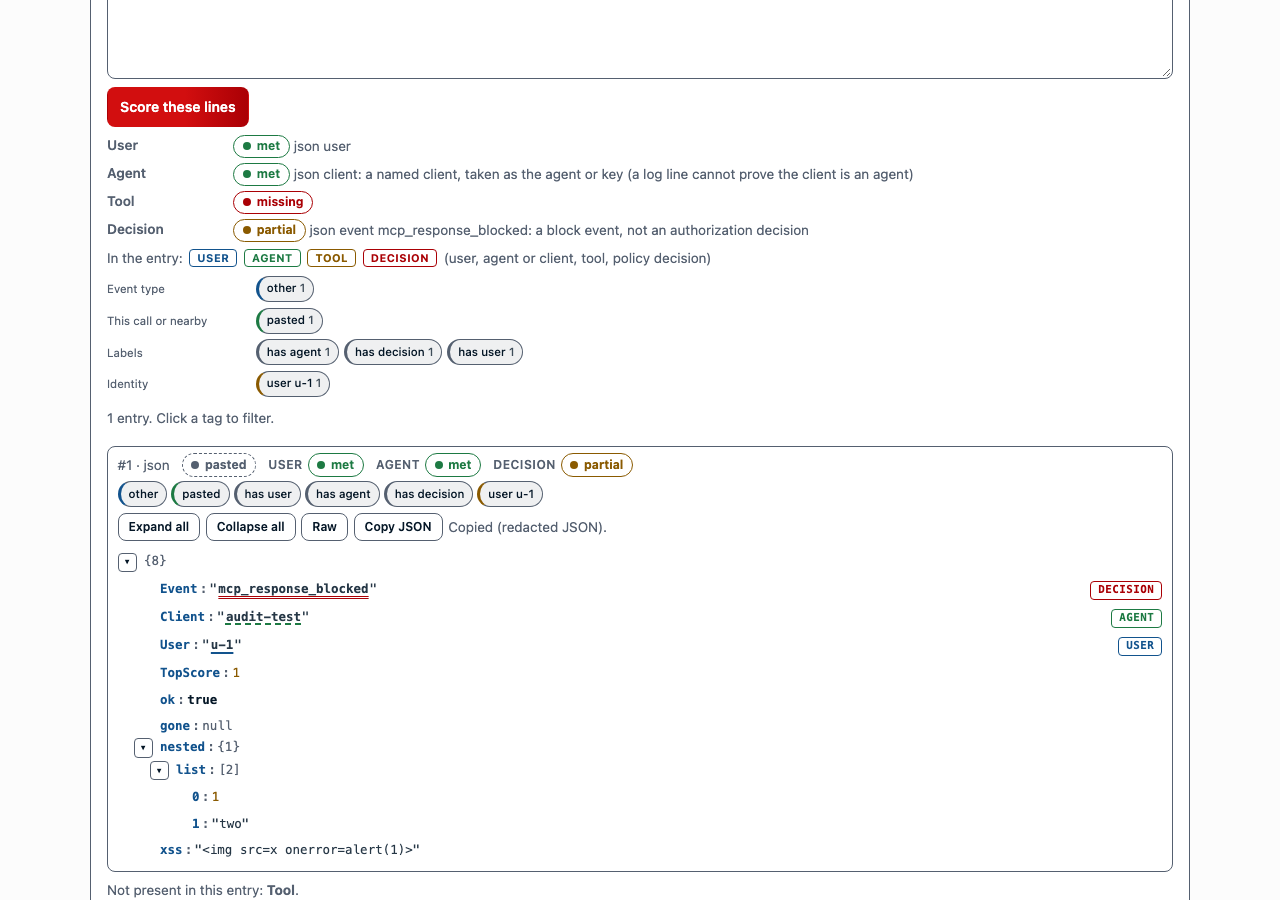
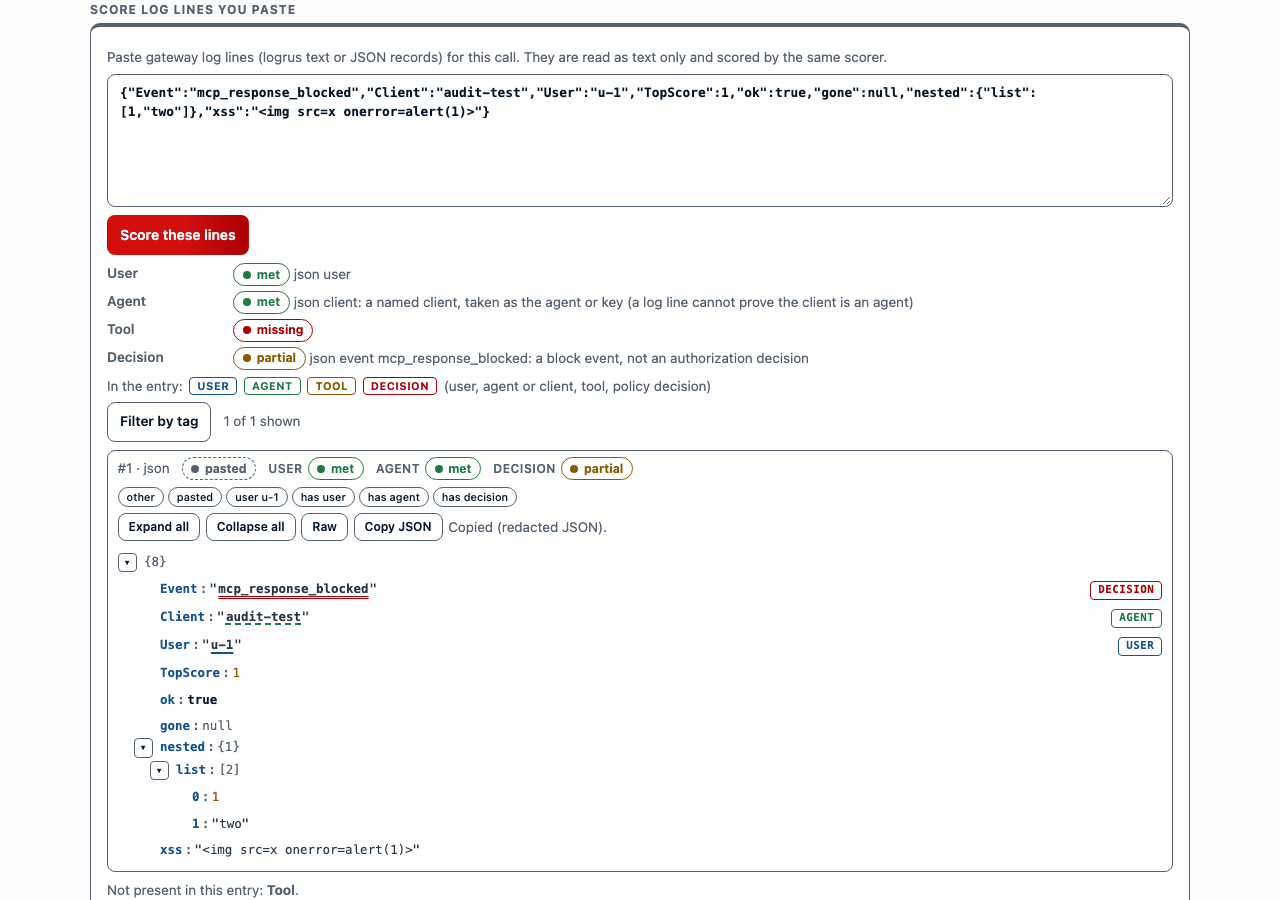
Trace tags styled after the Demo Shelf (#14)
Same pattern as demo-shelf-LAB: a Filter by tag toggle with X of Y shown,
a bordered panel of grouped chips (uppercase group labels, label plus
count, a picked chip filled with an accent outline, a chip that would
leave nothing disabled), Clear tags / Hide tags, and up to six small tag
pills per entry then +N more. Counts apply the other groups' selection.
Identity tags now come before the labels so they stay in the first six.

Changed region(s): [[0.0625, 0.0622, 0.8125, 0.56], [0.0625, 0.0, 0.9375, 0.0311]]

diff --git a/web/src/components/LogEntries.jsx b/web/src/components/LogEntries.jsx
@@ -16,33 +16,66 @@ const SHOW = 50;
 const KIND = { runtime: ["ok", "runtime event"], console: ["info", "console event"], unknown: ["neutral", "kind unknown"] };
 const GROUPS = [["type", "Event type"], ["match", "This call or nearby"], ["label", "Labels"], ["identity", "Identity"]];
 
-// Every tag on these entries, grouped, with how many entries carry it. Clicking one filters; clicking again clears it.
+// Styled after the Demo Shelf's tag filter (demo-shelf-LAB): a "Filter by tag" toggle, then a panel of groups with a pill per tag
+// and its count, "X of Y shown", Clear tags / Hide tags. A count is how many entries that tag would leave with every other group's
+// selection applied (within a group, tags add up); a tag that would leave none is disabled unless it is selected.
 function TagFilter({ tagsByEntry, selected, onToggle, onClear, shown, total }) {
-  const counts = new Map();
-  for (const tags of tagsByEntry) for (const t of tags) { const id = tagId(t); const c = counts.get(id) || { t, n: 0 }; c.n += 1; counts.set(id, c); }
+  const [open, setOpen] = useState(false);
+  const all = new Map();
+  for (const tags of tagsByEntry) for (const t of tags) all.set(tagId(t), t);
+  const countFor = (t) => {
+    const others = new Set([...selected].filter((id) => !id.startsWith(`${t.group}:`)));
+    others.add(tagId(t));
+    return tagsByEntry.filter((tags) => matchesAll(tags, others)).length;
+  };
+  const status = <span className="tag-filters__count" role="status" data-testid="tag-filter-count">{shown} of {total} shown</span>;
+  if (!open && selected.size === 0) {
+    return <p className="tag-toggle"><button type="button" aria-expanded="false" onClick={() => setOpen(true)} data-testid="tag-filter-open">Filter by tag</button> {status}</p>;
+  }
   return (
-    <div className="tagfilter" data-testid="tag-filter" role="group" aria-label="Filter entries by tag">
+    <section className="tag-filters" aria-label="Filter entries by tag" data-testid="tag-filter">
       {GROUPS.map(([g, label]) => {
-        const items = [...counts.values()].filter((c) => c.t.group === g).sort((a, b) => b.n - a.n || a.t.value.localeCompare(b.t.value));
+        const items = [...all.values()].filter((t) => t.group === g).map((t) => ({ t, n: countFor(t) })).sort((a, b) => b.n - a.n || a.t.value.localeCompare(b.t.value));
         if (!items.length) return null;
         return (
-          <div key={g} className="tagfilter__group">
-            <span className="muted tagfilter__label">{label}</span>
-            {items.map(({ t, n }) => <TagButton key={tagId(t)} t={t} on={selected.has(tagId(t))} onToggle={onToggle} count={n} testId="filter-tag" />)}
+          <div key={g} role="group" aria-label={label} className="tag-filters__row">
+            <span className="tag-filters__group">{label}</span>
+            {items.map(({ t, n }) => {
+              const on = selected.has(tagId(t));
+              return (
+                <button key={tagId(t)} type="button" className="tag-chip" aria-pressed={on} disabled={!on && n === 0} onClick={() => onToggle(tagId(t))} data-testid="filter-tag" data-tag={tagId(t)}>
+                  {t.value} <small>{n}</small>
+                </button>
+              );
+            })}
           </div>
         );
       })}
-      <p className="muted" data-testid="tag-filter-count">
-        {selected.size ? <>Showing {shown} of {total} entries. <button type="button" onClick={onClear} data-testid="tag-filter-clear">Clear filters</button></> : <>{total} {total === 1 ? "entry" : "entries"}. Click a tag to filter.</>}
-      </p>
-    </div>
+      <div className="tag-filters__bar">
+        {status}
+        {selected.size > 0 && <button type="button" onClick={onClear} data-testid="tag-filter-clear">Clear tags</button>}
+        {selected.size === 0 && <button type="button" aria-expanded="true" onClick={() => setOpen(false)} data-testid="tag-filter-hide">Hide tags</button>}
+      </div>
+    </section>
   );
 }
-const TagButton = ({ t, on, onToggle, count, testId }) => (
-  <button type="button" className={`etag etag--${t.group}${on ? " etag--on" : ""}`} aria-pressed={on ? "true" : "false"} onClick={() => onToggle(tagId(t))} data-testid={testId} data-tag={tagId(t)}>
-    {t.value}{count !== undefined ? <span className="etag__n"> {count}</span> : null}
-  </button>
-);
+
+// The tags on one entry, as the shelf shows tags on a box: small pills (a picked one is filled), at most MAX_PILLS, then "+N more".
+const MAX_PILLS = 6;
+function EntryTags({ tags, selected, onToggle }) {
+  const [more, setMore] = useState(false);
+  const shown = more ? tags : tags.slice(0, MAX_PILLS);
+  return (
+    <ul className="tag-pills" aria-label="Tags" data-testid="entry-tags">
+      {shown.map((t) => (
+        <li key={tagId(t)}>
+          <button type="button" className="tag-pill" aria-pressed={selected.has(tagId(t))} onClick={() => onToggle(tagId(t))} data-testid="entry-tag" data-tag={tagId(t)}>{t.value}</button>
+        </li>
+      ))}
+      {!more && tags.length > MAX_PILLS && <li><button type="button" className="tag-more" onClick={() => setMore(true)} data-testid="entry-tags-more">+{tags.length - MAX_PILLS} more</button></li>}
+    </ul>
+  );
+}
 
 export default function LogEntries({ lines, methods = [], marks = {}, testId = "lines", scored = true, from = "", kinds = [], indices = [] }) {
   const [all, setAll] = useState(false);
@@ -74,7 +107,7 @@ export default function LogEntries({ lines, methods = [], marks = {}, testId = "
                 {word && <Chip kind={kind} testId="entry-method">{word}</Chip>}
                 {fs.map((f) => <span key={f.field} className="ltag"><span className="ltag__name">{FIELD_LABEL[f.field]}</span> <LevelChip level={f.level} /></span>)}
               </div>
-              <div className="entry__tags" data-testid="entry-tags">{tagsByEntry[i].map((t) => <TagButton key={tagId(t)} t={t} on={selected.has(tagId(t))} onToggle={toggle} testId="entry-tag" />)}</div>
+              <EntryTags tags={tagsByEntry[i]} selected={selected} onToggle={toggle} />
               <JsonTree value={parsed[i].value} raw={line} marks={textMarks(i)} label={`Log entry ${i + 1}`} testId={`entry-${i}`} />
             </li>
           );

diff --git a/web/src/app.css b/web/src/app.css
@@ -148,17 +148,20 @@ button[aria-pressed="true"]:hover:not(:disabled), button[aria-selected="true"]:h
    dashed edge. Muted on --surface-2 stays above 4.5:1 in both themes. Override here; standalone-ui.css is vendored. */
 button.primary:disabled { background: var(--surface-2); color: var(--muted); border: 1px dashed var(--muted); opacity: 1; }
 .priv-filters { display: flex; flex-wrap: wrap; gap: 0.6rem; align-items: end; margin: 0.5rem 0; }
-/* Entry tags and the tag filter (Trace): unselected tags keep readable text on surface-2; selected = accent fill. */
-.tagfilter { display: grid; gap: 0.35rem; margin: 0.5rem 0 0.75rem; }
-.tagfilter__group { display: flex; flex-wrap: wrap; align-items: center; gap: 0.3rem; }
-.tagfilter__label { font-size: 0.72rem; min-width: 9rem; }
-.entry__tags { display: flex; flex-wrap: wrap; gap: 0.25rem; margin: 0.3rem 0; }
-.etag { min-height: 26px; font-weight: 500; font-size: 0.72rem; line-height: 1.3; padding: 0.1rem 0.5rem; border-radius: 999px; border: 1px solid var(--border); border-left-width: 3px; background: var(--surface-2); color: var(--text); cursor: pointer; overflow-wrap: anywhere; text-align: left; }
-.etag--type { border-left-color: var(--status-info); } .etag--match { border-left-color: var(--status-ok); }
-.etag--identity { border-left-color: var(--status-warn); } .etag--label { border-left-color: var(--muted); }
-.etag--on { background: var(--accent); color: var(--on-accent); border-color: var(--on-accent-border); }
-.etag__n { opacity: 0.75; }
-.etag:focus-visible { outline: 2px solid var(--accent); outline-offset: 1px; }
+/* Entry tags and the tag filter (Trace), styled after the Demo Shelf (demo-shelf-LAB web/src/styles.css): same sizes, pills and
+   panel. A picked pill is filled by the shared aria-pressed rule in standalone-ui.css, plus the shelf's accent outline. */
+.tag-filters__row { display: flex; flex-wrap: wrap; gap: 8px; align-items: center; }
+.tag-filters { display: grid; gap: 8px; padding: 14px; margin: 0.5rem 0 0.75rem; border: 1px solid var(--border); border-radius: 12px; background: var(--surface); }
+.tag-filters__group { flex: 0 0 11rem; color: var(--muted); font-size: 0.72rem; font-weight: 700; letter-spacing: 0.08em; text-transform: uppercase; }
+.tag-chip { display: inline-flex; gap: 6px; align-items: baseline; min-height: 0; padding: 3px 12px; border-radius: 999px; font-size: 0.8rem; overflow-wrap: anywhere; }
+.tag-chip small { font-weight: 500; }
+.tag-chip[aria-pressed="true"] { outline: 2px solid var(--accent); outline-offset: 1px; }
+.tag-filters__bar { display: flex; gap: 12px; align-items: center; justify-content: space-between; color: var(--muted); font-size: 0.8rem; }
+.tag-toggle { display: flex; gap: 12px; align-items: center; margin: 0.5rem 0; color: var(--muted); font-size: 0.8rem; }
+.tag-pills { display: flex; flex-wrap: wrap; gap: 4px; margin: 0.3rem 0; padding: 0; list-style: none; }
+.tag-pill { min-height: 0; padding: 1px 8px; border-radius: 999px; font-size: 0.68rem; font-weight: 500; overflow-wrap: anywhere; text-align: left; }
+.tag-more { min-height: 0; padding: 1px 8px; border-radius: 999px; border-style: dashed; color: var(--muted); font-size: 0.7rem; font-weight: 500; }
+@media (max-width: 600px) { .tag-filters__group { flex-basis: 100%; } }
 /* The confirm gate inside a case card (single Run): same warning edge as the top-level gate, no nested card. */
 .gate-inline { margin: 0.5rem 0; padding: 0.6rem 0.75rem; border: 1px solid var(--status-warn); border-left-width: 4px; border-radius: 8px; background: var(--surface-2); }
 .gate-inline__title { font-size: 0.95rem; margin: 0 0 0.35rem; }

diff --git a/web/src/App.test.jsx b/web/src/App.test.jsx
@@ -177,17 +177,31 @@ describe("Mock mode", () => {
     const items = () => within(sink).queryAllByTestId("entry-item");
     expect(items()).toHaveLength(3);
     expect(within(items()[0]).getAllByTestId("entry-tag").map((t) => t.getAttribute("data-tag"))).toEqual(expect.arrayContaining(["type:auth", "match:recorded sample", "identity:key audit-test"]));
+    const first = within(items()[0]);
+    expect(first.getAllByTestId("entry-tag")).toHaveLength(6); // at most six pills, then "+N more", like tags on a shelf box
+    await user.click(first.getByTestId("entry-tags-more"));
+    expect(first.getAllByTestId("entry-tag").length).toBeGreaterThan(6);
+    expect(first.queryByTestId("entry-tags-more")).toBeNull();
+    // like the Demo Shelf: collapsed behind "Filter by tag" with "X of Y shown"; counts say what each tag would leave
+    expect(within(sink).getByTestId("tag-filter-count").textContent).toBe("3 of 3 shown");
+    await user.click(within(sink).getByTestId("tag-filter-open"));
     const filterTag = (id) => within(sink).getAllByTestId("filter-tag").find((b) => b.getAttribute("data-tag") === id);
+    expect(filterTag("type:auth").textContent).toBe("auth 1");
     await user.click(filterTag("type:auth"));
     expect(items()).toHaveLength(1);
     expect(filterTag("type:auth")).toHaveAttribute("aria-pressed", "true");
-    expect(within(sink).getByTestId("tag-filter-count").textContent).toMatch(/Showing 1 of 3 entries/);
+    expect(within(sink).getByTestId("tag-filter-count").textContent).toBe("1 of 3 shown");
+    expect(within(items()[0]).getAllByTestId("entry-tag").find((b) => b.getAttribute("data-tag") === "type:auth")).toHaveAttribute("aria-pressed", "true");
     await user.click(filterTag("type:policy"));
     expect(items()).toHaveLength(2);
+    expect(filterTag("identity:key audit-test")).not.toBeDisabled();
     await user.click(filterTag("identity:key audit-test"));
     expect(items()).toHaveLength(1);
+    expect(filterTag("type:policy").textContent).toBe("policy 0"); // with the key picked, policy alone would leave nothing
     await user.click(within(sink).getByTestId("tag-filter-clear"));
     expect(items()).toHaveLength(3);
+    await user.click(within(sink).getByTestId("tag-filter-hide"));
+    expect(within(sink).getByTestId("tag-filter-open")).toBeInTheDocument();
   });
 
   it("Trace says where every log entry came from: a recorded sample names its sink and date, and each entry carries a from chip", async () => {

diff --git a/web/src/lib/entryTags.js b/web/src/lib/entryTags.js
@@ -47,11 +47,12 @@ export function tagsFor(line, { method, kind, from, fields = [] } = {}) {
   const tags = [];
   const types = TYPES.filter(([, re]) => re.test(String(line))).map(([n]) => n);
   for (const n of types.length ? types : ['other']) tags.push({ group: 'type', value: n });
+  // Order = what an entry shows first (at most six pills, then "+N more"): type, match, identity, then the labels.
   if (MATCH[method]) tags.push({ group: 'match', value: MATCH[method] });
+  for (const i of identitiesOf(line)) tags.push({ group: 'identity', value: i });
   if (from) tags.push({ group: 'label', value: `from ${from}` });
   if (KIND[kind]) tags.push({ group: 'label', value: KIND[kind] });
   for (const f of fields) if (FIELD[f]) tags.push({ group: 'label', value: FIELD[f] });
-  for (const i of identitiesOf(line)) tags.push({ group: 'identity', value: i });
   return tags;
 }
 

diff --git a/README.md b/README.md
@@ -61,7 +61,7 @@ The lab then GETs `/api/v1/namespaces/<ns>/pods/<pod>/log?container=<c>&sinceSec
 ## Pages
 
 1. **Run**: use cases grouped MCP, AI Guard, Rejected, Aggregate, A2A, LLM, Intent, a Run button each and Run all. A Run stays on this page (no jump to the Trace): the HTTP and score chips appear on the card, and **Open trace** shows the details.
-2. **Trace**: the request, the response (HTTP and JSON-RPC `isError`), the raw hops, and per-sink panels where **every log entry is a syntax-coloured JSON tree**: logrus text lines (`time`, `level`, `msg`, `file`, then key=value pairs) and JSON records (such as the AI Guard record) are parsed, anything else is one string node, nothing is dropped. Collapse or expand per node (arrow keys, `role=tree`), Expand all / Collapse all, a Raw toggle, Copy JSON (redacted). The user, agent, tool and decision values are badged and underlined in the tree with a legend, each entry is tagged by how it was matched (marker, inferred time window, recorded sample, pasted), and missing fields are listed as "not present in this entry". Every entry also carries clickable **tags** in four groups: event type (auth, policy, routing, MCP request, response filter, guardrail, other, read from the line), this call or nearby (marker match vs time window), labels (source, runtime/console, the requirement fields found) and identity (keys, users, apps and Federated Identities the line names; Privilege RefIDs are decoded to their name). A filter bar above each sink lists every tag with its count: any selected tag within a group, all groups with a selection (auth + policy = either; auth + this call = auth lines from this call); Clear restores. Rendering is React text only (no `innerHTML`), by an iterative walker with depth, node and string caps.
+2. **Trace**: the request, the response (HTTP and JSON-RPC `isError`), the raw hops, and per-sink panels where **every log entry is a syntax-coloured JSON tree**: logrus text lines (`time`, `level`, `msg`, `file`, then key=value pairs) and JSON records (such as the AI Guard record) are parsed, anything else is one string node, nothing is dropped. Collapse or expand per node (arrow keys, `role=tree`), Expand all / Collapse all, a Raw toggle, Copy JSON (redacted). The user, agent, tool and decision values are badged and underlined in the tree with a legend, each entry is tagged by how it was matched (marker, inferred time window, recorded sample, pasted), and missing fields are listed as "not present in this entry". Every entry also carries clickable **tags** in four groups: event type (auth, policy, routing, MCP request, response filter, guardrail, other, read from the line), this call or nearby (marker match vs time window), labels (source, runtime/console, the requirement fields found) and identity (keys, users, apps and Federated Identities the line names; Privilege RefIDs are decoded to their name). Styled after the Demo Shelf: each entry shows up to six tag pills ("+N more" opens the rest), and **Filter by tag** above each sink opens a panel of grouped tag chips with counts (what each tag would leave with the other groups applied; a tag that would leave nothing is disabled), "X of Y shown", Clear tags and Hide tags. Matching: any selected tag within a group, all groups with a selection (auth + policy = either; auth + this call = auth lines from this call); Clear restores. Rendering is React text only (no `innerHTML`), by an iterative walker with depth, node and string caps.
 3. **Scorecard**: use cases by the four clauses with met / partial / missing / n/a chips and the note. **Copy as Markdown table** for a customer email.
 4. **Where it's logged**: the five sinks, what each held for the cases it was read for (two were never read: UNVERIFIED), and an honest "what we cannot see" list.
 5. **Diagram**: one ReactFlow diagram per flow, caller to Privilege gateway to backend with the sinks hanging off the gateway. Drawn from `diagram-studio/1` data (`server/diagrams/*.json`, built from the capture), movable boxes, Simulate, speed control, Reset restores positions.

diff --git a/CHANGELOG.md b/CHANGELOG.md
@@ -5,6 +5,7 @@
 - Trace: every log entry has clickable tags (event type, this call or nearby, labels, identity) and each sink has a tag filter with counts.
 - Run stays on the Run page: the result shows on the card and focus goes back to that Run button; Open trace is a separate click. Look for entries works the same way.
 - Real: the confirm before the first send opens inside the case card you ran (Send button there), so the page no longer jumps to the top. Run all and the Privilege page keep the top-of-page confirm.
+- Trace tags restyled after the Demo Shelf: Filter by tag toggle, grouped chip panel with counts and disabled zero chips, X of Y shown, Clear tags / Hide tags, six pills per entry then +N more.
 - Getting back from a Trace: a Back to Run button on the Trace page, and the browser Back button works (page changes are history entries now). Either way the Run page comes back with the case you opened in view and its Open trace button focused.
 
 ## Unreleased (Privilege tab explorer)
